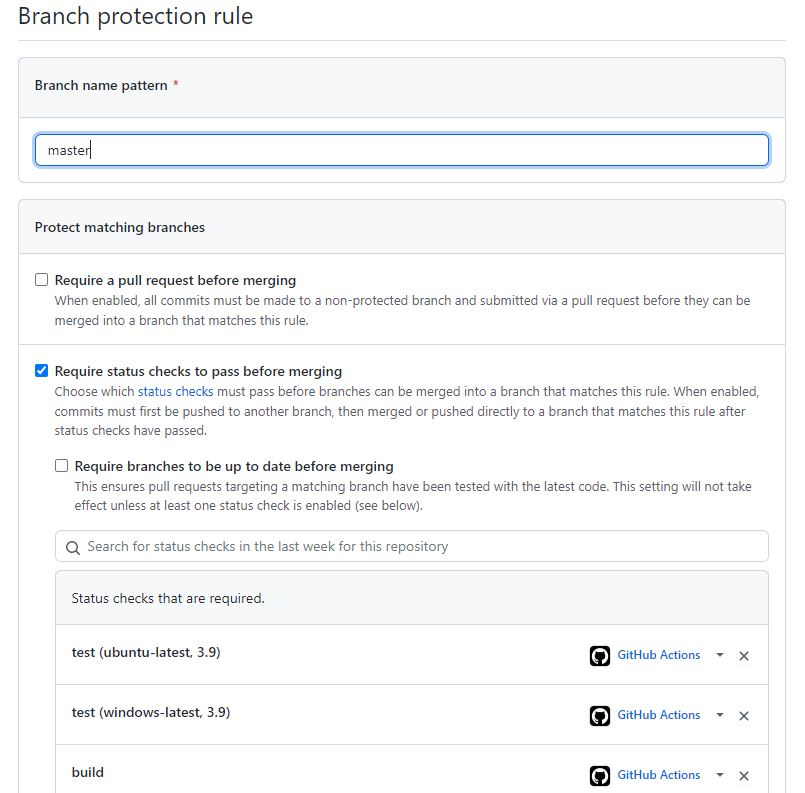
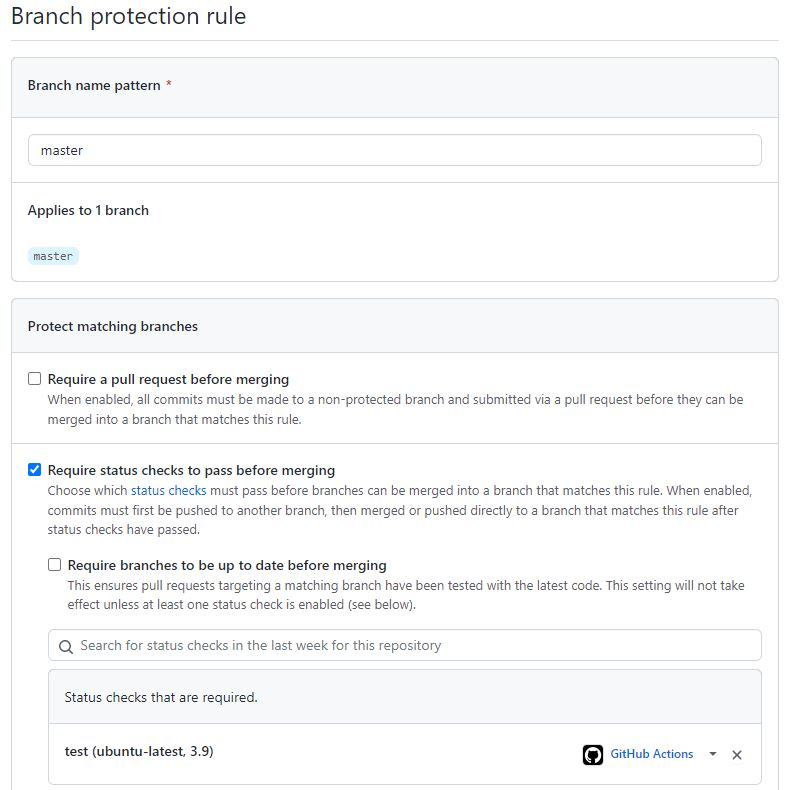
Cut all of the unnecessary tests to speed up CI

diff --git a/readme.md b/readme.md
@@ -205,4 +205,4 @@ To prevent a branch from being merged to ```master``` with failed tests, go to y
 
 Now you cannot accept pull request without tests passing.
 
-![Tests & Build](https://github.com/471VE/Pre-trained-Faster-Grad-CAM-demo/actions/workflows/tests.yml/badge.svg)
+![Tests & Build](https://github.com/471VE/Pre-trained-Faster-Grad-CAM-demo/actions/workflows/tests_push.yml/badge.svg)
